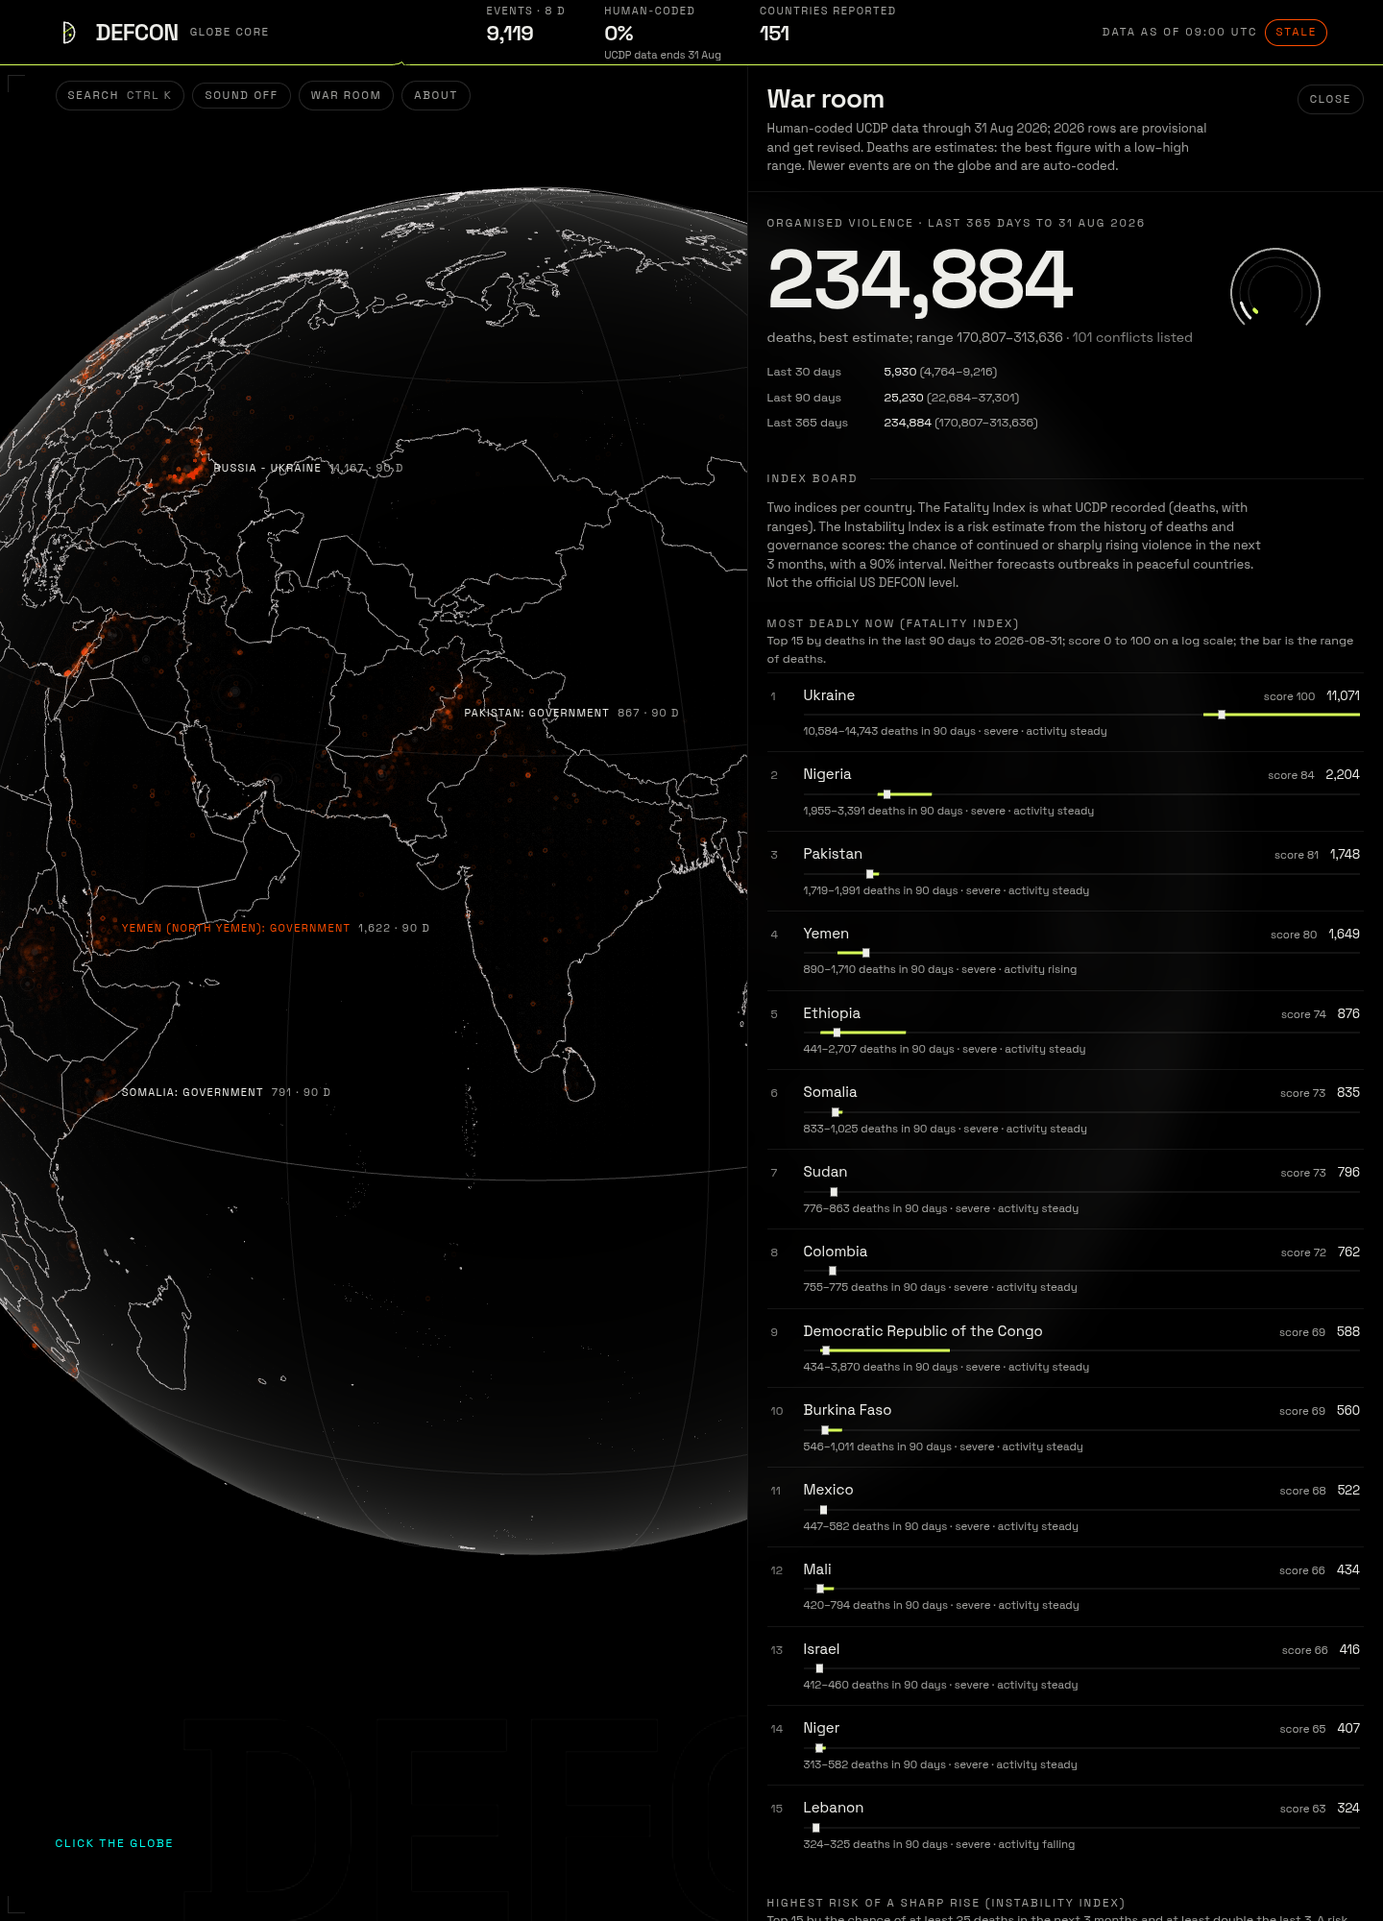
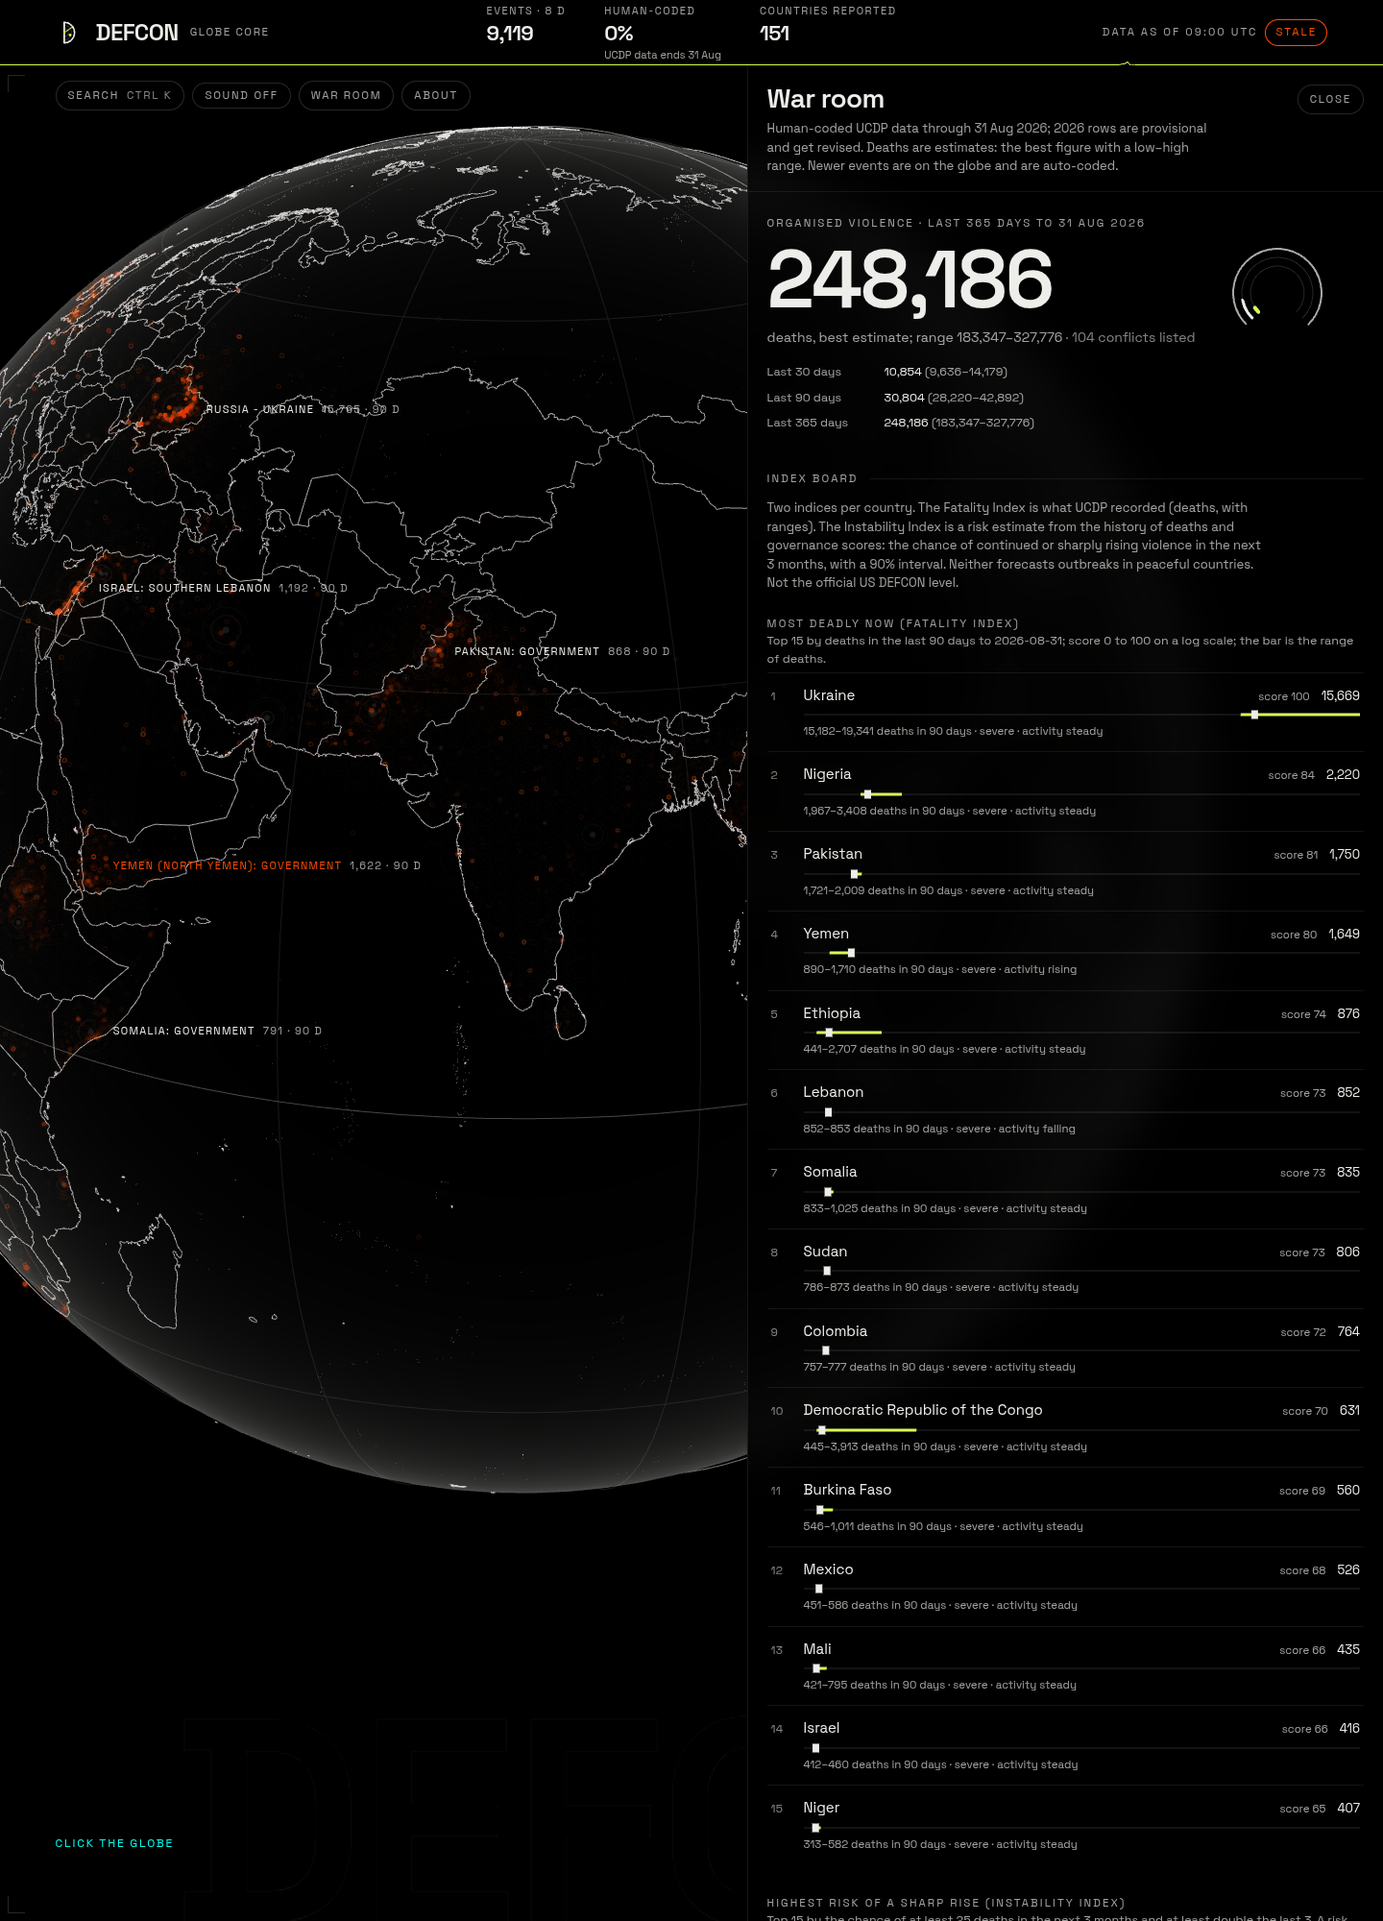
docs(plan-12): record calendar-true windows, refresh tooling and the yearly backtest (D-060)
Why / Context
Docs are the project ledger: the windows change moved headline numbers, and
the owner needs to know how data is refreshed and what is alerted.

Detailed inventory
- docs/DECISIONS.md D-060; docs/DATA-SOURCES.md (windows row, "Refreshing UCDP
  data"); docs/DEPLOY.md (monthly alerts); docs/BACKLOG.md (resolved items
  removed, remaining: unattended refresh PR, start-date counts and training,
  manual timeline research); README note.
- docs/images/index-{dossier,board,method}.png retaken (Ukraine 15,669).

Verification / Impact
Docs and images only; the gate was run on the code commits.

diff --git a/docs/DECISIONS.md b/docs/DECISIONS.md
@@ -63,3 +63,4 @@ Newest last. "Who": Owner = the project owner decided; Builder = Claude decided 
 | D-057 | 2026-10-18 | Sourced key-events timeline in the War tracker. The assistant's knowledge ends before most of the 2026 events, so nothing is written from memory: research agents read news pages (WebFetch) and wrote 46 entries; two further agents re-read every cited page against every summary and found problems in 35 (a number only one outlet gives, attribution lost between two outlets, a date a day off, a claim the page does not make); all were rewritten conservatively with attribution ("Al Jazeera, citing the Air Force, said ..."). Statuses: confirmed (two independent outlets), reported (one), disputed (parties or outlets differ); a validator enforces two different outlets and registrable domains for confirmed and disputed, and the data test runs it. Honest limits shown or recorded: hand-curated and ageing (page shows "checked <date>"), no Reuters/AP/BBC/Guardian reachable, AFP-based pieces are not fully independent, front-line changes omitted for lack of two sources. Review fixes: a claim no page supported ("Israel disputed" the 1 June halt) was removed and the entry set to reported, casualty claims left the titles ("officials report at least 30 dead", a test bans "kills" in titles), two entries moved to reported and one to disputed where the sources differ, the legend now says confirmed means two outlets report the event and figures are not verified, and the file's limits (mostly Al Jazeera, Times of Israel, Kyiv Independent, France 24, CBS; no Reuters/AP/BBC/Guardian) and each theatre's omission note are shown on the page. Premises from the owner's brief and web search that failed verification are not shown (a June Iran-Israel exchange was one night, the truce broke on 8 July; no verified Beirut strikes in Sept-Oct). | Owner: a war tracker with verified information. Machine-checkable rules plus a second verification pass are the nearest thing to verification available without a newsroom. | Owner asked, Builder designed |
 | D-058 | 2026-10-19 | War room (Plan 10): the War tracker modal became a dashboard docked beside the globe with real charts and a presence on the globe. Data: `conflicts.json` gets `geo` per conflict (death-weighted centroid computed on the sphere, spread, top 40 hotspot cells, `locatedShare`) and `world.weeklyByKind`; the timeline entries get an approximate `at`. **Only events UCDP located to a province or better (`where_prec` <= 4) shape the geography**: events it can only place in a region or the whole country share one geocode, and in Russia - Ukraine one point (49.0, 32.0) holds about 74,000 of the deaths, which first made the centroid and the hotspots meaningless (12% of its deaths are located; the page says so). Globe: a war layer (halos, zone ring, hotspot glow, pins) in the engine, a camera flight that waits for the sonar boot, Night Watch blocked while the room is open. Charts: `src/viz` (stream, bubbles with area-proportional circles, range whiskers, ring, sparklines, count-up); the League is the accessible equivalent of the bubbles. **JS budget:** split into what the page loads at start (<= 250 KB gzip, 238 KB now) and all JavaScript including lazy chunks (<= 275 KB, 252 KB now), because the War room is a lazy chunk of 10 KB gzip that costs nothing until opened and the single total was breached by 1.6 KB. | Owner: the popup is bland, a data dump; make it organic, visually appealing, with charts and a presence on the globe, without reducing data. | Owner asked, Builder designed |
 | D-059 | 2026-10-19 | Fatality Index and Instability Index (Plan 11). The owner asked for both, so both were built, sized by what the studies showed. **Fatality Index** = `100 * log10(1 + deaths in 90 days) / log10(10001)`, clamped to 0-100 (a log scale because deaths span five orders of magnitude; a presentation scale, not a weighted composite, no editorial weights), with its range from the low and high death estimates, a band on 365-day deaths (none, minor under 25, active 25-999, severe 1,000 or more), rank, per 100,000 and a ten-year monthly series. **Instability Index** (the Violence Risk Index) = two ridge logistic models, "continue" (at least 25 deaths in the next 3 months) and "rise" (at least 25 and at least double the previous 3), features log deaths over 3, 12 and 36 months, a trend term, two leveling-off squared terms and five WGI estimates, trained on final GED only; 90% intervals from a 100-replicate cluster bootstrap (training uncertainty only); momentum; a heuristic confidence label; an additive "why this score". Backtest (fit to 2015-12, test 2021-01 to 2025-09): rise AUC 0.846 against 0.742 for recent deaths alone, continue AUC 0.983 against 0.972 (mostly persistence); a tail bucket (predictions of 30% or more) is published because the first model was overconfident there (predicted 62%, observed 38%) and the trend and squared terms fixed most of it. Not built: onset forecasting (not forecastable), a blended headline number, a globe choropleth. Shown in the dossier card, the War room Index board and the About method section; a country outside UCDP GED is "not modelled", never "low". Data file rebuilt by hand. See `docs/INDEX-BACKTEST.md`. **Review fixes (same day):** the "sharp rise" interval is clamped per bootstrap replicate so it never exceeds "continue"; momentum shows "low data" when most of the 90-day deaths are dated the 1st of a month (candidate rows carry only a month); Palestine's dossier says UCDP files Gaza and the West Bank under Israel; governance values use only years already published (up to Y-2 for year Y), which moved the rise AUC from 0.8459 to 0.8455; equal deaths share a rank; no invented score range; tiny per-100,000 rates keep two significant digits. |
+| D-060 | 2026-10-19 | Plan 12: calendar-true windows, safe refresh, stability. (1) UCDP candidate rows can cover a month or several (`date_prec` 4 and 5), and dating them by start made Ukraine's last 90 days 11,071 against a calendar quarter of about 15,200; an event's deaths are now spread evenly over the days from `date_start` to `date_end` (end clipped to the data end) by a shared helper (`scripts/lib/spread.ts`) used by the conflicts and indices builders; windows, weekly and monthly series follow the days, events without `date_end` are one day (unchanged), counts, places and the training months still use the start date, windows are rounded after summing (world weekly is the sum of the rounded kinds). Ukraine's last 90 days are now 15,669 and 104 conflicts are listed (was 101). This supersedes the Plan 11 first-of-month momentum rule. (2) Refresh stays a reviewed change, not unattended: `npm run data:ucdp-discover -- --check` (HEAD) and `--accept` (download and pin), plus a read-only monthly workflow (`data-updates.yml`) that fails, so GitHub emails the owner, when a newer UCDP file exists or the timeline is over 45 days old. (3) The timeline says how old its check is after 30 days. (4) The backtest is also run for each year 2016 to 2025 (fit up to September of the year before): rise AUC 0.80 to 0.92 and above the recent-deaths baseline in every year, continue AUC 0.96 to 0.99; a guard test enforces that. |

diff --git a/docs/DATA-SOURCES.md b/docs/DATA-SOURCES.md
@@ -163,7 +163,7 @@ Cadence: the scheduled ingest runs every 3 hours (D-047), so "live" means at mos
 | File | `public/data/conflicts.json` (about 530 KB, 119 KB gzipped; loaded only when the War tracker opens) |
 | Built by | `npm run data:conflicts` (`scripts/conflicts/build-conflicts.ts`) from the pinned UCDP files: GED 26.1 and the 2026 candidate releases (run `npm run data:ucdp` first) |
 | Content | UCDP events grouped by `conflict_name`; per conflict: deaths as `best` with the `low`-`high` range for 30, 90 and 365 days, event counts, a trend word, 52 weekly buckets (364 days), the 12 newest events with place, headline and source names, the countries involved |
-| Windows | End at the **data end date** (the latest UCDP event, 2026-08-31 on 2026-10-18), never at today. A conflict is listed with at least 100 deaths in 365 days or 25 in 90 days (101 conflicts). |
+| Windows | End at the **data end date** (the latest UCDP event, 2026-08-31 on 2026-10-18), never at today. A conflict is listed with at least 100 deaths in 365 days or 25 in 90 days (104 conflicts after Plan 12). | **Dates an event covers (Plan 12):** UCDP candidate rows often cover a month or several months (`date_prec` 4 and 5, start on the 1st, end on the last day); an event's deaths are spread evenly over its days (end clipped to the data end), and each window, the weekly series and the monthly series take the share of days they contain. Events without `date_end` are one day. Event counts, places and the model's training months still use the start date; windows are rounded after summing, so weekly bars may differ from the total by a few deaths.
 | Activity trend | **Event counts** (not deaths, so one mass-casualty event cannot flip it): events in the last 30 days against the average 30 days of the 60 days before: rising (>= 1.5x and >= 5 events), falling (<= 0.5x and base >= 5), steady, or "low data" (under 5 events to compare) |
 | Provisional | Rows from candidate files are provisional (UCDP revises them); each event and each conflict carries that flag or share |
 | Unnamed | UCDP candidate files anonymise some actors as `XXX<number>`; those conflicts keep the code in their name next to the main country |
@@ -183,6 +183,14 @@ Cadence: the scheduled ingest runs every 3 hours (D-047), so "live" means at mos
 | Refresh | by hand (`npm run data:indices`), not in CI; the file carries its data end date |
 | Licence | derived from CC BY 4.0 data (UCDP, World Bank WGI and WDI); attribution on the About page |
 | Not included | countries without a UCDP record (shown as "not modelled", never "low"), protests, onset forecasts |
+
+## Refreshing UCDP data (Plan 12)
+
+| Item | Value |
+|------|-------|
+| Alert | `.github/workflows/data-updates.yml` runs on the 5th of every month (read-only, no secrets) and fails, so GitHub emails the owner, when UCDP has published the next monthly candidate file (`npm run data:ucdp-discover -- --check`, a HEAD request) or when the timeline is more than 45 days old (`npm run data:timeline-age`) |
+| Refresh | `npm run data:ucdp-discover -- --accept` downloads the next file and pins its SHA-256, then `npm run data:conflicts` and `npm run data:indices`, then `npm test`, then commit `data/events/sources.json`, `public/data/conflicts.json`, `public/data/indices.json` and `docs/INDEX-BACKTEST.md` |
+| Why not unattended | the SHA-256 pin is a supply-chain control and the indices are a model output: a person looks at the diff and the guard tests before it goes live |
 
 ## Key-events timeline (curated, committed)
 

diff --git a/README.md b/README.md
@@ -25,7 +25,7 @@
 - **Events from public datasets:** UCDP GED (human-coded) and GDELT (auto-coded), merged, deduplicated and severity-scored; a provisional "DEFCON-style" tension index, shown only when it is comparable (never the official US DEFCON level).
 - **Country dossiers** for 248 countries with the source and date of every field and redaction bars for missing data; **Country Dive**, **Ctrl/Cmd-K** search, capital labels, shareable links (`#c=IND`).
 - **War room** (`#war`): a dashboard docked beside the globe, not a popup. A hero numeral and ring, a stream chart of weekly deaths by kind with the key events on it, bubbles and a league of every current conflict (deaths as a best estimate with its range, activity trend, sparkline), a per-conflict view with an editorial timeline, and a presence on the globe itself: halos and names at the conflicts, the selected conflict's zone, its death hotspots and its timeline events as pins. Human-coded UCDP data only, windows end at the data end date, 2026 rows labelled provisional.
-- **Fatality Index and Instability Index** per country: the Fatality Index is observed (UCDP deaths on a documented log scale, with ranges, band, rank, per 100,000); the Instability Index is a risk estimate (two logistic models: the chance that violence continues or rises sharply in the next 3 months, with 90% intervals, momentum, a confidence label and a "why this score" breakdown). In the country dossier, as an Index board in the War room, and with the full method and the published backtest and calibration on the About page ([docs/INDEX-BACKTEST.md](docs/INDEX-BACKTEST.md)). A risk estimate, not a forecast of outbreaks in peaceful countries, and not the official US DEFCON level.
+- **Fatality Index and Instability Index** per country: the Fatality Index is observed (UCDP deaths on a documented log scale, with ranges, band, rank, per 100,000); the Instability Index is a risk estimate (two logistic models: the chance that violence continues or rises sharply in the next 3 months, with 90% intervals, momentum, a confidence label and a "why this score" breakdown). In the country dossier, as an Index board in the War room, and with the full method and the published backtest and calibration on the About page ([docs/INDEX-BACKTEST.md](docs/INDEX-BACKTEST.md)). A risk estimate, not a forecast of outbreaks in peaceful countries, and not the official US DEFCON level. The backtest is also published year by year. A monthly workflow emails the owner when UCDP has newer data or the timeline is old (`docs/DATA-SOURCES.md`).
 - **Sourced timeline** in the War room: 46 key events of 2026 (US/Israel-Iran, Israel-Lebanon, Russia-Ukraine, Gaza) with status (confirmed / reported / disputed) and linked sources, read and re-checked by AI research agents (through a summarising fetch tool, long pages only to 100,000 characters), validated by tests, hand-curated, with the checked date, the sources' limits and omissions shown.
 - **Alliance arcs** (formal treaty members, cyan) and **active disputes** (UCDP state-vs-state events, orange dashed), both sourced.
 - **Time travel** scrubber with Play and a cosmetic Declassify effect, a shader **heat grain**, a live **day/night terminator**, a **radar cursor**, a **pulse border**, an idle **Night Watch** showcase and optional **World Sound** (off by default).

diff --git a/docs/BACKLOG.md b/docs/BACKLOG.md
@@ -184,9 +184,10 @@ The owner liked World Monitor's Country Instability Index and asked for it to be
 ## Plan 11 deferred (Fatality and Instability indices, 2026-10-19)
 
 - A globe choropleth of the two indices (colour the countries by band or risk); a country-list sort by index in the search palette.
-- Refresh in CI: `indices.json`, `conflicts.json` and the UCDP candidate files are rebuilt by hand (`npm run data:ucdp`, `data:conflicts`, `data:indices`); auto-discovering newer UCDP monthly files and rebuilding in the workflow is not done.
+- Refresh is a reviewed change by design (Plan 12: `data:ucdp-discover`, a monthly alert workflow); an unattended rebuild-and-open-a-pull-request job is not done (needs the repository setting that lets Actions create pull requests).
+- The model's training months and the event counts still use the start date of an event (the windows and series follow the days); calendar-month training features would change the model and need a new backtest.
+- The key-events timeline is hand-curated: the monthly alert tells when it is old, but updating it is manual research.
 - The 90% intervals cover training uncertainty only; a conformal or walk-forward interval would cover model error too. One time split only: a rolling-origin backtest would show stability.
-- `deaths90` is lumpy for countries whose 2026 candidate events are dated the 1st of a month (Ukraine's last 90 days are below its calendar quarter): momentum now shows "low data", but the headline window and `conflicts.json` still use 30/90/365-day windows; calendar-month windows are a separate change.
 - Reviewer minors not done: the calibration guard checks absolute bin errors only (0.05), not a relative error for the small bins; "Why this score" is the unclamped log-odds (the card says so when the rise is capped at "continue"); Iran-type cases (very deadly year, quiet quarter) can show a high rise estimate with momentum "falling" (stated in the limits).
 - No independent review of the model by a person who does conflict forecasting; protests (ACLED) are not available, so unrest is not in the index.
 

diff --git a/docs/DEPLOY.md b/docs/DEPLOY.md
@@ -47,6 +47,7 @@ Without the secrets the workflow still ingests and validates (a useful check) bu
 ### Reading a failed run
 
 - `Validate the snapshot (gate)` failed: the step prints the problems (missing file, hash mismatch, no recent events, data older than 48 h, bad coordinates, missing detail shard, overlapping windows). Nothing was deployed. Re-run once; if the source (UCDP or GDELT) is down, wait. Locally: `npm run data:validate`.
+- **Monthly alerts:** `.github/workflows/data-updates.yml` (5th of each month, read-only) fails when UCDP has a newer monthly candidate file or the timeline is older than 45 days; GitHub emails the owner. To refresh, see "Refreshing UCDP data" in docs/DATA-SOURCES.md.
 - `npm run data:ucdp` failed with a SHA-256 mismatch: UCDP revises its candidate files in place. Every run fails until the owner re-pins locally (`npm run data:ucdp -- --accept-new`), checks the diff of `data/events/sources.json` and commits it.
 - A fetch step failed or GDELT is unreachable: the cache keeps older files, and the validator turns the run red once the newest data is older than 12 hours (the live site then keeps its previous data).
 - The `events-snapshot` artifact on a run holds exactly what was validated.
